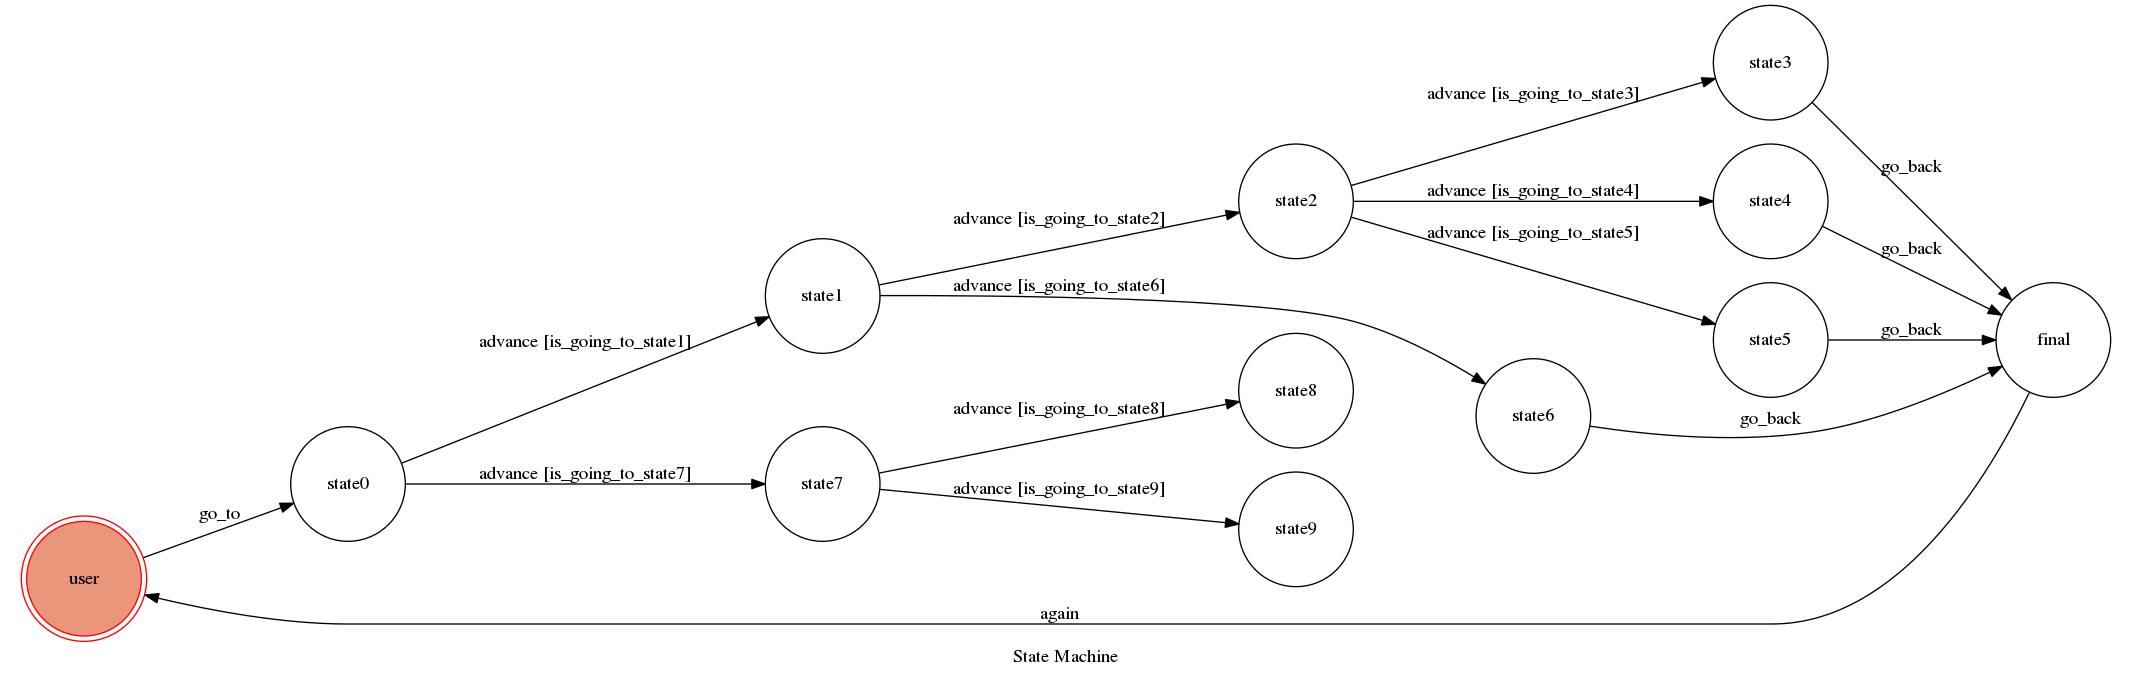
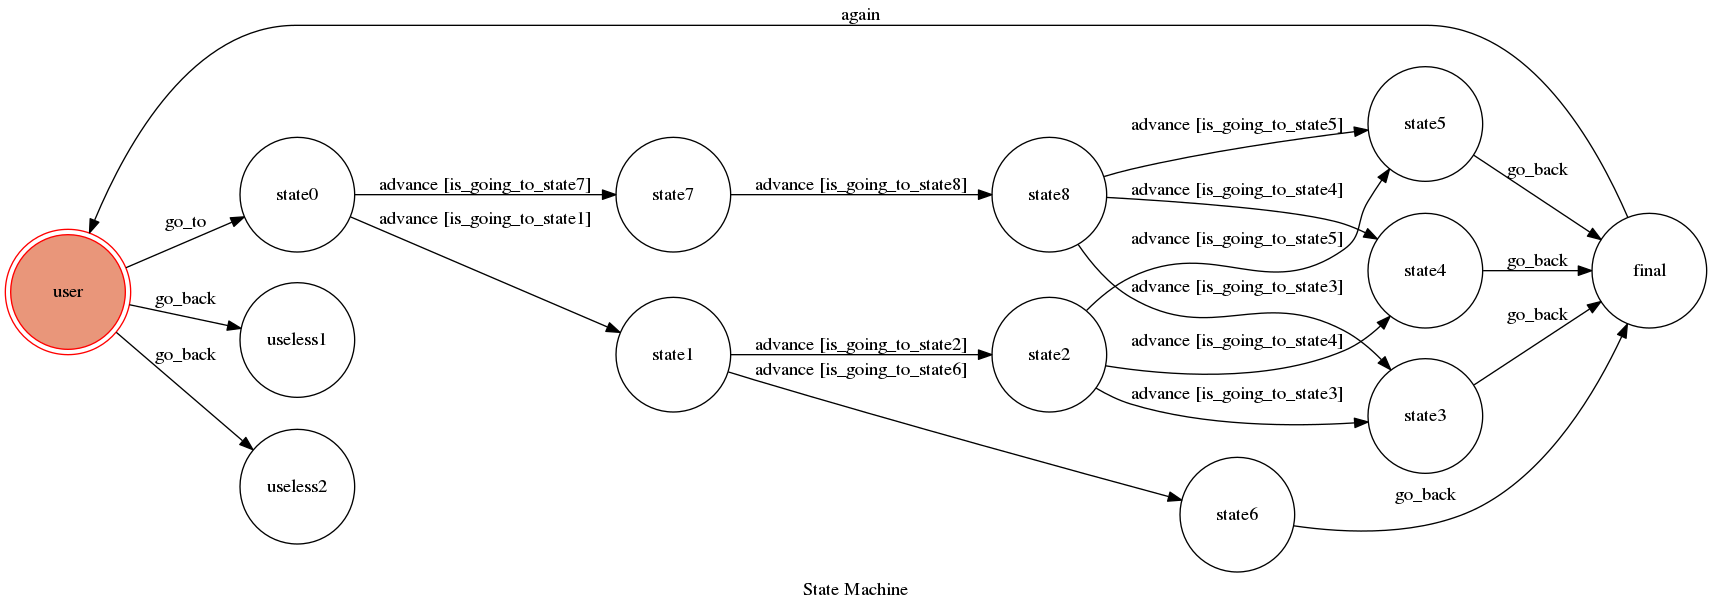
123

diff --git a/fsm.py b/fsm.py
@@ -4,6 +4,7 @@ from utils import send_text_message
 from utils import send_photo_message
 
 class TocMachine(GraphMachine):
+    major = 1
     def __init__(self, **machine_configs):
         self.machine = GraphMachine(
             model=self,
@@ -14,6 +15,7 @@ class TocMachine(GraphMachine):
     def is_going_to_state1(self, event):
         if event.get("message"):
             text = event['message']['text']
+            self.major = 1
             return text.lower() == '機械'
         return False
 
@@ -49,6 +51,7 @@ class TocMachine(GraphMachine):
     def is_going_to_state7(self, event):
         if event.get("message"):
             text = event['message']['text']
+            self.major = 2
             return text.lower() == '資工'
         return False
 
@@ -107,25 +110,46 @@ class TocMachine(GraphMachine):
         print("I'm entering state3")
 
         sender_id = event['sender']['id']
-        send_text_message(sender_id, "一上：微積分一、普化、靜力學、普物一")
-        send_text_message(sender_id, "一下：微積分二、工程圖學、動力學、普物二")
-        self.go_back(event)
+        if self.major==1:
+            print("123")
+            send_text_message(sender_id, "一上：微積分一、普化、靜力學、普物一")
+            send_text_message(sender_id, "一下：微積分二、工程圖學、動力學、普物二")
+            self.go_back(event)
+        else:
+            print("456")
+            send_text_message(sender_id, "一上：微積分一、程式設計一、靜力學、普物一")
+            send_text_message(sender_id, "一下：微積分二、工程圖學、程式設計二、普物二")
+            self.go_back(event)
 
     def on_enter_state4(self, event):
         print("I'm entering state4")
 
         sender_id = event['sender']['id']
-        send_text_message(sender_id, "二上：機動一、工數一、材力一、熱力一")
-        send_text_message(sender_id, "二下：機動二、工數二、熱力二、電工學、機械製造")
-        self.go_back(event)
+        if self.major==1:
+            print("123")
+            send_text_message(sender_id, "二上：微積分一、普化、靜力學、普物一")
+            send_text_message(sender_id, "二下：微積分二、工程圖學、動力學、普物二")
+            self.go_back(event)
+        else:
+            print("456")
+            send_text_message(sender_id, "二上：微積分一、程式設計一、靜力學、普物一")
+            send_text_message(sender_id, "二下：微積分二、工程圖學、程式設計二、普物二")
+            self.go_back(event)
 
     def on_enter_state5(self, event):
         print("I'm entering state5")
 
         sender_id = event['sender']['id']
-        send_text_message(sender_id, "三上：流體力學、機械設計、自動控制、電子學")
-        send_text_message(sender_id, "三下：熱傳學、專題實作、機工實驗")
-        self.go_back(event)
+        if self.major==1:
+            print("123")
+            send_text_message(sender_id, "三上：微積分一、普化、靜力學、普物一")
+            send_text_message(sender_id, "三下：微積分二、工程圖學、動力學、普物二")
+            self.go_back(event)
+        else:
+            print("456")
+            send_text_message(sender_id, "三上：微積分一、程式設計一、靜力學、普物一")
+            send_text_message(sender_id, "三下：微積分二、工程圖學、程式設計二、普物二")
+            self.go_back(event)
 
     def on_enter_state6(self, event):
         print("I'm entering state6")

diff --git a/app.py b/app.py
@@ -1,17 +1,31 @@
-from bottle import route, run, request, abort, static_file
+from bottle import route, run, request, abort, static_file, Bottle
 
+import os
 from fsm import TocMachine
 
 
 VERIFY_TOKEN = "123"
+
+PORT = os.environ['PORT']
 machine = TocMachine(
-    states=['final','user','state0','state1','state2','state3','state4','state5','state6','state7','state8','state9'],
+    states=['final','user','state0','state1','state2','state3','state4','state5','state6','state7','state8','useless1','useless2'],
     transitions=[
         {
             'trigger': 'go_to',
             'source': 'user',
             'dest': 'state0',
         },
+        {
+            'trigger': 'go_back',
+            'source': 'user',
+            'dest': 'useless1',
+        },
+        {
+            'trigger': 'go_back',
+            'source': 'user',
+            'dest': 'useless2',
+        },
+
         {
             'trigger': 'advance',
             'source': 'state0',
@@ -38,19 +52,19 @@ machine = TocMachine(
         },
 	{
             'trigger': 'advance',
-            'source': 'state2',
+            'source': ['state2','state8'],
             'dest': 'state3',
             'conditions': 'is_going_to_state3'
         },
 	{
             'trigger': 'advance',
-            'source': 'state2',
+            'source': ['state2','state8'],
             'dest': 'state4',
             'conditions': 'is_going_to_state4'
         },
 	{
             'trigger': 'advance',
-            'source': 'state2',
+            'source': ['state2','state8'],
             'dest': 'state5',
             'conditions': 'is_going_to_state5'
         },
@@ -60,12 +74,7 @@ machine = TocMachine(
             'dest': 'state8',
             'conditions': 'is_going_to_state8'
         },
-	{
-            'trigger': 'advance',
-            'source': 'state7',
-            'dest': 'state9',
-            'conditions': 'is_going_to_state9'
-        },
+
 
         {
             'trigger': 'go_back',
@@ -83,8 +92,10 @@ machine = TocMachine(
     show_conditions=True,
 )
 
+app = Bottle()
 
-@route("/webhook", method="GET")
+
+@app.route("/webhook", method="GET")
 def setup_webhook():
     mode = request.GET.get("hub.mode")
     token = request.GET.get("hub.verify_token")
@@ -98,7 +109,7 @@ def setup_webhook():
         abort(403)
 
 
-@route("/webhook", method="POST")
+@app.route("/webhook", method="POST")
 def webhook_handler():
     body = request.json
     print('\nFSM STATE: ' + machine.state)
@@ -114,12 +125,13 @@ def webhook_handler():
     return 'OK'
 
 
-@route('/show-fsm', methods=['GET'])
-def show_fsm():
-    machine.get_graph().draw('fsm.png', prog='dot', format='png')
-    return static_file('fsm.png', root='./', mimetype='image/png')
+# @app.route('/show-fsm', methods=['GET'])
+# def show_fsm():
+#     # machine.get_graph().draw('fsm.png', prog='dot', format='png')
+#     return static_file('fsm.png', root='./', mimetype='image/png')
 
 
 if __name__ == "__main__":
-    machine.get_graph().draw('show-fsm.png', prog='dot')
-    run(host="localhost", port=5000, debug=True, reloader=True)
+    # machine.get_graph().draw('show-fsm.png', prog='dot')
+    app.run(host="0.0.0.0", port=PORT, debug=True, reloader=True)
+
